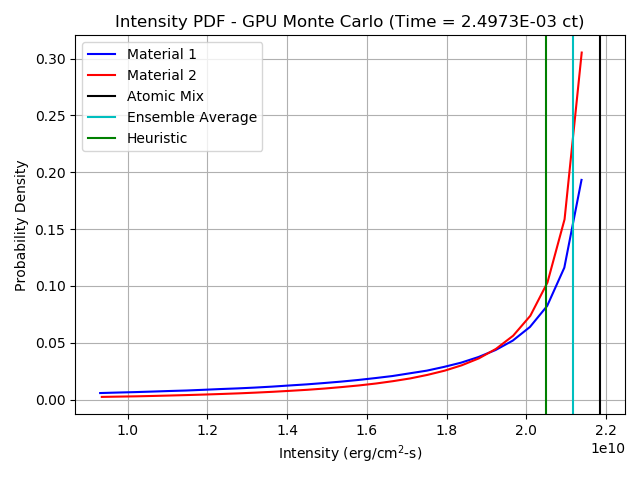
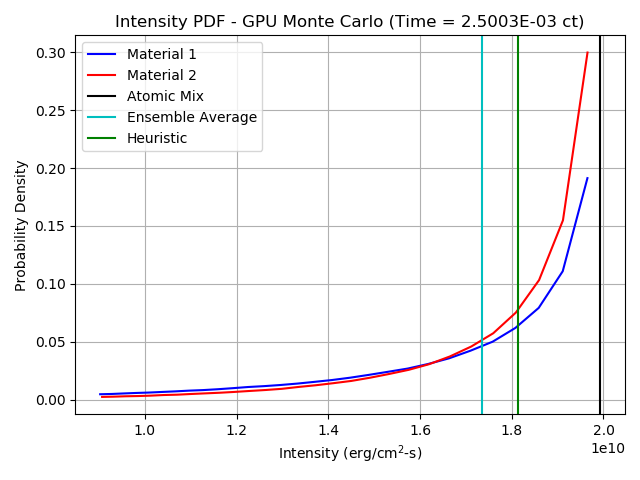
Updates to plotting utilities

diff --git a/presentation_plot.py b/presentation_plot.py
@@ -17,9 +17,14 @@ YSCALE = "linear"
 HISTXSCALE = "linear"
 HISTYSCALE = "linear"
 
+CHORD_1 = 1e-3
+CHORD_2 = 5e-3
+VF_1 = CHORD_1 / (CHORD_1 + CHORD_2)
+VF_2 = 1.0 - VF_1
+
 def main():
     '''Main function'''
-    serial_exists = gpu_exists = hist_exists = True
+    serial_exists = gpu_exists = hist_exists = heur_exists = am_exists = True
     try:
         serial_data = pd.read_csv(f"./{DATAPATH}/output.csv")
     except FileNotFoundError:
@@ -32,6 +37,14 @@ def main():
         hist_data = pd.read_csv(f"./{HISTPATH}/mc_pdf.csv")
     except FileNotFoundError:
         hist_exists = False
+    try:
+        heur_data = pd.read_csv(f"./{DATAPATH}/levermorepomraning.csv")
+    except FileNotFoundError:
+        heur_exists = False
+    try:
+        am_data = pd.read_csv(f"./{DATAPATH}/atomicmix.csv")
+    except FileNotFoundError:
+        am_exists = False
 
     if not os.path.exists(f"./{PLOTPATH}"):
         os.makedirs(f"./{PLOTPATH}")
@@ -204,15 +217,22 @@ def main():
         plt.cla()
         plt.clf()
 
-    if hist_exists:
-        time_ss = hist_data['time'][0]
+    if hist_exists and am_exists and heur_exists:
+        time_ss = hist_data['time'].iloc[0]
+
+        ensemble_avg_intensity = (hist_data['intensity1arr'] * hist_data['freqintensity1'] * VF_1 + hist_data['intensity2arr'] * hist_data['freqintensity2'] * VF_2).sum()
+        ensemble_avg_temperature = (hist_data['temperature1arr'] * hist_data['freqtemperature1'] * VF_1 + hist_data['temperature2arr'] * hist_data['freqtemperature2'] * VF_2).sum()
+        ensemble_avg_opacity = (hist_data['opacity1arr'] * hist_data['freqopacity1'] * VF_1 + hist_data['opacity2arr'] * hist_data['freqopacity2'] * VF_2).sum()
 
         # Intensity Material 1 and 2
         plt.plot(hist_data['intensity1arr'][1:len(hist_data['intensity1arr'])-1], hist_data['freqintensity1'][1:len(hist_data['freqintensity1'])-1], color='b', label="Material 1")
         plt.plot(hist_data['intensity2arr'][1:len(hist_data['intensity2arr'])-1], hist_data['freqintensity2'][1:len(hist_data['freqintensity2'])-1], color='r', label="Material 2")
-        plt.axvline(x=21848239083.052482, color='k', label="Atomic Mix")
-        plt.axvline(x=2.115966666e10, color='c', label="Ensemble Average")
-        plt.axvline(x=20484661056.158676, color='g', label="Heuristic")
+        #plt.axvline(x=21848239083.052482, color='k', label="Atomic Mix")
+        plt.axvline(x=am_data.query(f"time == {time_ss}")['intensityarr'].iloc[0], color='k', label="Atomic Mix")
+        #plt.axvline(x=2.115966666e10, color='c', label="Ensemble Average")
+        plt.axvline(x=ensemble_avg_intensity, color='c', label="Ensemble Average")
+        #plt.axvline(x=20484661056.158676, color='g', label="Heuristic")
+        plt.axvline(x=heur_data.query(f"time == {time_ss}")['intensityarr'].iloc[0], color='g', label="Heuristic")
         plt.title(f"Intensity PDF - GPU Monte Carlo (Time = {time_ss:.4E} ct)")
         plt.xlabel("Intensity (erg/cm$^2$-s)")
         plt.ylabel("Probability Density")
@@ -228,9 +248,12 @@ def main():
         # Temperature Material 1 and 2
         plt.plot(hist_data['temperature1arr'][1:len(hist_data['temperature1arr'])-1], hist_data['freqtemperature1'][1:len(hist_data['freqtemperature1'])-1], color='b', label="Material 1")
         plt.plot(hist_data['temperature2arr'][1:len(hist_data['temperature2arr'])-1], hist_data['freqtemperature2'][1:len(hist_data['freqtemperature2'])-1], color='r', label="Material 2")
-        plt.axvline(x=0.2712211898921925, color='k', label="Atomic Mix")
-        plt.axvline(x=0.2906166666, color='c', label="Ensemble Average")
-        plt.axvline(x=0.31670525696951857, color='g', label="Heuristic")
+        #plt.axvline(x=0.2712211898921925, color='k', label="Atomic Mix")
+        plt.axvline(x=am_data.query(f"time == {time_ss}")['temperaturearr'].iloc[0], color='k', label="Atomic Mix")
+        #plt.axvline(x=0.2906166666, color='c', label="Ensemble Average")
+        plt.axvline(x=ensemble_avg_temperature, color='c', label="Ensemble Average")
+        #plt.axvline(x=0.31670525696951857, color='g', label="Heuristic")
+        plt.axvline(x=heur_data.query(f"time == {time_ss}")['temperaturearr'].iloc[0], color='k', label="Heuristic")
         plt.title(f"Temperature PDF - GPU Monte Carlo (Time = {time_ss:.4E} ct)")
         plt.xlabel("Temperature (eV)")
         plt.ylabel("Probability Density")
@@ -246,9 +269,12 @@ def main():
         # Opacity Material 1 and 2
         plt.plot(hist_data['opacity1arr'][1:len(hist_data['opacity1arr'])-1], hist_data['freqopacity1'][1:len(hist_data['freqopacity1'])-1], color='b', label="Material 1")
         plt.plot(hist_data['opacity2arr'][1:len(hist_data['opacity2arr'])-1], hist_data['freqopacity2'][1:len(hist_data['freqopacity2'])-1], color='r', label="Material 2")
-        plt.axvline(x=217.17419755097302, color='k', label="Atomic Mix")
-        plt.axvline(x=188.9405, color='c', label="Ensemble Average")
-        plt.axvline(x=181.94386078272075, color='g', label="Heuristic")
+        #plt.axvline(x=217.17419755097302, color='k', label="Atomic Mix")
+        plt.axvline(x=am_data.query(f"time == {time_ss}")['opacityarr'].iloc[0], color='k', label="Atomic Mix")
+        #plt.axvline(x=188.9405, color='c', label="Ensemble Average")
+        plt.axvline(x=ensemble_avg_opacity, color='c', label="Ensemble Average")
+        #plt.axvline(x=181.94386078272075, color='g', label="Heuristic")
+        plt.axvline(x=heur_data.query(f"time == {time_ss}")['intensityarr'].iloc[0], color='k', label="Heuristic")
         plt.title(f"Opacity PDF - GPU Monte Carlo (Time = {time_ss:.4E} ct)")
         plt.xlabel("Opacity (cm$^{-1}$)")
         plt.ylabel("Probability Density")
